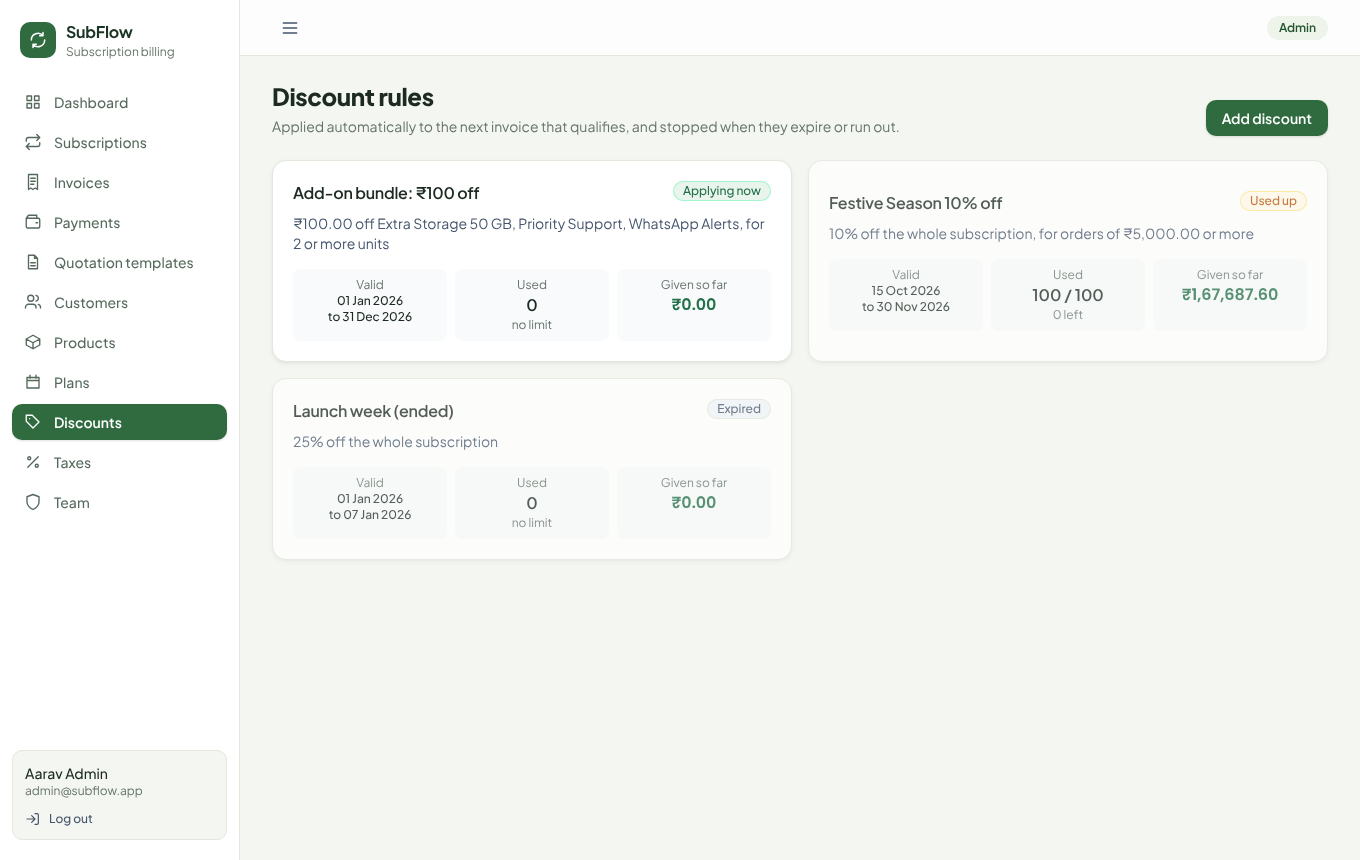
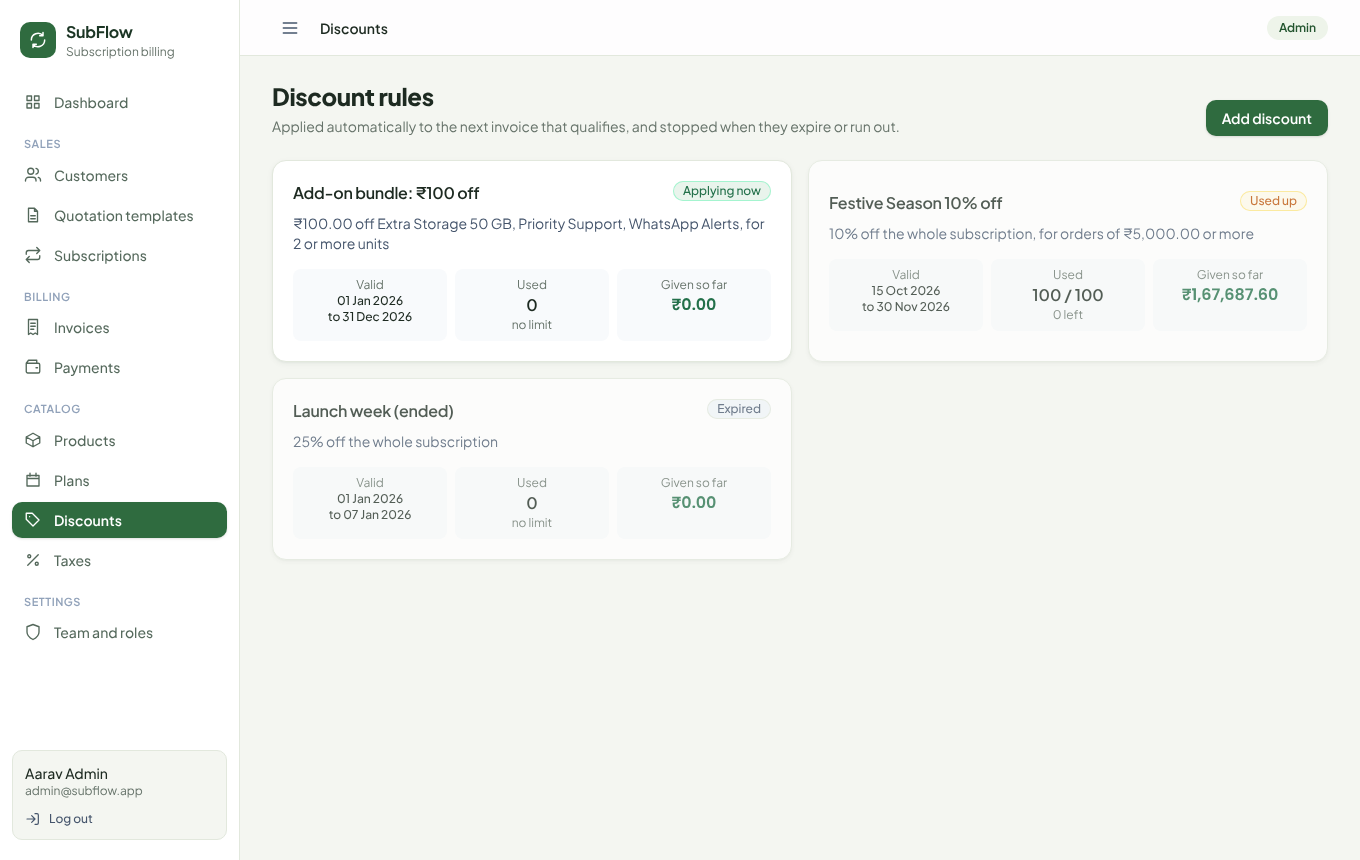
feat: grouped menu (Sales, Billing, Catalog, Settings), dashboard quick actions, upcoming billing, breadcrumb, collapsible sidebar

diff --git a/client/src/pages/FinanceDashboard.jsx b/client/src/pages/FinanceDashboard.jsx
@@ -6,6 +6,7 @@ import { Alert, Badge } from '../components/ui.jsx';
 import { METHOD_LABELS } from '../components/RecordPayment.jsx';
 import { formatDate, formatINR, SUB_STATUS, todayISO } from '../utils/format.js';
 import Select from '../components/Select.jsx';
+import RunBilling from '../components/RunBilling.jsx';
 import Icon from '../components/Icon.jsx';
 import FitText, { FitGroup } from '../components/FitText.jsx';
 import { AreaLine, Donut, PairBars, ShareBars } from '../components/Charts.jsx';
@@ -137,6 +138,15 @@ export default function FinanceDashboard() {
         </div>
       </div>
 
+      {/* Quick actions: the daily jobs in one click */}
+      <div className="mb-5 grid grid-cols-2 gap-2 sm:flex sm:flex-wrap">
+        <Link to="/subscriptions/new" className="btn-primary"><Icon name="plus" className="h-4 w-4" /> New quotation</Link>
+        <RunBilling onDone={() => setReload((n) => n + 1)} />
+        <Link to="/invoices?tab=confirmed" className="btn-secondary"><Icon name="wallet" className="h-4 w-4" /> Record payment</Link>
+        <Link to="/invoices?tab=overdue" className="btn-secondary"><Icon name="bell" className="h-4 w-4" /> Chase overdue</Link>
+        <Link to="/customers" className="btn-secondary"><Icon name="users" className="h-4 w-4" /> Add customer</Link>
+      </div>
+
       <div className="mb-4"><Alert>{error}</Alert></div>
       {!data ? <p className="py-16 text-center text-sm text-slate-400">{loading ? 'Loading…' : ''}</p> : (
         <div className={loading ? 'opacity-60 transition' : 'transition'}>
@@ -256,6 +266,28 @@ export default function FinanceDashboard() {
               )}
             </div>
 
+            <div className="space-y-5">
+            <div className="card p-5">
+              <div className="mb-1 flex items-baseline justify-between gap-2">
+                <h2 className="font-semibold">Upcoming billing</h2>
+                <span className="text-xs text-slate-500">next 7 days</span>
+              </div>
+              <p className="mb-3 text-sm text-slate-500">
+                <span className="num font-semibold text-ink">{data.upcomingBilling.count.toLocaleString('en-IN')}</span> subscriptions,
+                about <span className="num font-semibold text-ink">{formatINR(data.upcomingBilling.amount)}</span> before GST
+              </p>
+              {data.upcomingBilling.items.length === 0 ? <p className="text-sm text-slate-400">Nothing due in the next 7 days.</p> : (
+                <div className="space-y-2.5">
+                  {data.upcomingBilling.items.map((u) => (
+                    <Link key={u.id} to={`/subscriptions/${u.id}`} className="flex items-center justify-between gap-2 text-sm hover:text-brand-700">
+                      <div className="min-w-0"><div className="truncate">{u.customerName}</div><div className="truncate text-xs text-slate-500">{formatDate(u.nextInvoiceDate)} · {u.planName} · {u.number}</div></div>
+                      <div className="num shrink-0 font-medium">{formatINR(u.amount)}</div>
+                    </Link>
+                  ))}
+                </div>
+              )}
+            </div>
+
             <div className="card p-5">
               <h2 className="mb-3 font-semibold">Latest payments</h2>
               {data.recentPayments.length === 0 ? <p className="text-sm text-slate-400">No payments in this period.</p> : (
@@ -268,6 +300,7 @@ export default function FinanceDashboard() {
                   ))}
                 </div>
               )}
+            </div>
             </div>
           </div>
           <p className="mt-4 text-xs text-slate-400">

diff --git a/client/src/config/nav.js b/client/src/config/nav.js
@@ -1,18 +1,19 @@
 // Sidebar menu. Each item lists the roles allowed to see it.
 // Add new pages here as modules are built.
+// `section` groups the internal menu so a judge sees the business workflow at a glance.
 export const NAV_ITEMS = [
   { to: '/', label: 'Dashboard', icon: 'grid', roles: ['admin', 'staff', 'customer'] },
-  { to: '/subscriptions', label: 'Subscriptions', icon: 'repeat', roles: ['admin', 'staff'] },
+  { to: '/customers', label: 'Customers', icon: 'users', roles: ['admin', 'staff'], section: 'Sales' },
+  { to: '/templates', label: 'Quotation templates', icon: 'file', roles: ['admin', 'staff'], section: 'Sales' },
+  { to: '/subscriptions', label: 'Subscriptions', icon: 'repeat', roles: ['admin', 'staff'], section: 'Sales' },
+  { to: '/invoices', label: 'Invoices', icon: 'receipt', roles: ['admin', 'staff'], section: 'Billing' },
+  { to: '/payments', label: 'Payments', icon: 'wallet', roles: ['admin', 'staff'], section: 'Billing' },
+  { to: '/products', label: 'Products', icon: 'box', roles: ['admin', 'staff'], section: 'Catalog' },
+  { to: '/plans', label: 'Plans', icon: 'calendar', roles: ['admin', 'staff'], section: 'Catalog' },
+  { to: '/discounts', label: 'Discounts', icon: 'tag', roles: ['admin', 'staff'], section: 'Catalog' },
+  { to: '/taxes', label: 'Taxes', icon: 'percent', roles: ['admin', 'staff'], section: 'Catalog' },
+  { to: '/team', label: 'Team and roles', icon: 'shield', roles: ['admin'], section: 'Settings' },
   { to: '/subscriptions', label: 'My subscriptions', icon: 'repeat', roles: ['customer'] },
-  { to: '/invoices', label: 'Invoices', icon: 'receipt', roles: ['admin', 'staff'] },
   { to: '/invoices', label: 'My invoices', icon: 'receipt', roles: ['customer'] },
-  { to: '/payments', label: 'Payments', icon: 'wallet', roles: ['admin', 'staff'] },
   { to: '/payments', label: 'My payments', icon: 'wallet', roles: ['customer'] },
-  { to: '/templates', label: 'Quotation templates', icon: 'file', roles: ['admin', 'staff'] },
-  { to: '/customers', label: 'Customers', icon: 'users', roles: ['admin', 'staff'] },
-  { to: '/products', label: 'Products', icon: 'box', roles: ['admin', 'staff'] },
-  { to: '/plans', label: 'Plans', icon: 'calendar', roles: ['admin', 'staff'] },
-  { to: '/discounts', label: 'Discounts', icon: 'tag', roles: ['admin', 'staff'] },
-  { to: '/taxes', label: 'Taxes', icon: 'percent', roles: ['admin', 'staff'] },
-  { to: '/team', label: 'Team', icon: 'shield', roles: ['admin'] },
 ];

diff --git a/server/src/routes/reports.js b/server/src/routes/reports.js
@@ -41,7 +41,7 @@ router.get(
     const params = [today, from, to, planId];
     const planSub = '($4::int IS NULL OR s.plan_id = $4)';
 
-    const [subs, money, period, months, plans, overdue, aging, recent, methods] = await Promise.all([
+    const [subs, money, period, months, plans, overdue, aging, recent, methods, upcoming] = await Promise.all([
       // Subscriptions right now
       query(
         `SELECT s.status, COUNT(*) AS n,
@@ -146,6 +146,18 @@ router.get(
          GROUP BY pay.method ORDER BY 2 DESC`,
         params
       ),
+      // Upcoming billing: active subscriptions due in the next 7 days (amount before GST)
+      query(
+        `SELECT s.id, s.number, c.name AS customer_name, p.name AS plan_name, s.next_invoice_date,
+                ROUND(${SUB_VALUE}, 2) AS amount,
+                COUNT(*) OVER () AS total_count, SUM(${SUB_VALUE}) OVER () AS total_amount
+         FROM subscriptions s JOIN plans p ON p.id = s.plan_id JOIN users c ON c.id = s.customer_id
+         WHERE s.status = 'active' AND s.next_invoice_date BETWEEN $1 AND $1::date + 7
+           AND (s.expiry_date IS NULL OR s.next_invoice_date <= s.expiry_date) AND ${planSub}
+           AND $2::date IS NOT NULL AND $3::date IS NOT NULL
+         ORDER BY s.next_invoice_date, s.id LIMIT 6`,
+        params
+      ),
     ]);
 
     const byStatus = { draft: 0, quotation: 0, confirmed: 0, active: 0, paused: 0, closed: 0 };
@@ -187,6 +199,11 @@ router.get(
       topPlans: plans.rows.map((r) => ({ ...toCamel(r), mrr: round2(r.mrr) })),
       overdueInvoices: overdue.rows.map(toCamel),
       recentPayments: recent.rows.map(toCamel),
+      upcomingBilling: {
+        count: Number(upcoming.rows[0]?.total_count || 0),
+        amount: round2(Number(upcoming.rows[0]?.total_amount || 0)),
+        items: upcoming.rows.map((r) => ({ id: r.id, number: r.number, customerName: r.customer_name, planName: r.plan_name, nextInvoiceDate: r.next_invoice_date, amount: Number(r.amount) })),
+      },
     });
   })
 );

diff --git a/client/src/components/Layout.jsx b/client/src/components/Layout.jsx
@@ -84,10 +84,13 @@ function LayoutFrame() {
   }
 
   const sidebar = (
-    <nav className="flex flex-1 flex-col gap-1 px-3">
-      {items.map((item) => (
+    <nav className="flex flex-1 flex-col gap-1 overflow-y-auto px-3">
+      {items.map((item, i) => (
+        <div key={`${item.to}-${item.label}`}>
+          {item.section && item.section !== items[i - 1]?.section && (
+            <div className="mb-1 mt-3 px-3 text-[11px] font-semibold uppercase tracking-wider text-slate-400">{item.section}</div>
+          )}
         <NavLink
-          key={item.to}
           to={item.to}
           end={item.to === '/'}
           onClick={() => setOpen(false)}
@@ -100,6 +103,7 @@ function LayoutFrame() {
           <Icon name={item.icon} className="h-4.5 w-4.5" />
           {item.label}
         </NavLink>
+        </div>
       ))}
     </nav>
   );

diff --git a/client/src/pages/Invoices.jsx b/client/src/pages/Invoices.jsx
@@ -21,7 +21,7 @@ export default function Invoices() {
   const { user } = useAuth();
   const internal = user.role !== 'customer';
   const navigate = useNavigate();
-  const [tab, setTab] = useState('');
+  const [tab, setTab] = useState(() => new URLSearchParams(window.location.search).get('tab') || '');
   const filters = tab === 'overdue' ? { overdue: 'true' } : tab ? { status: tab } : {};
   const list = usePagedList('/invoices', filters);
   const [selected, setSelected] = useState([]);
